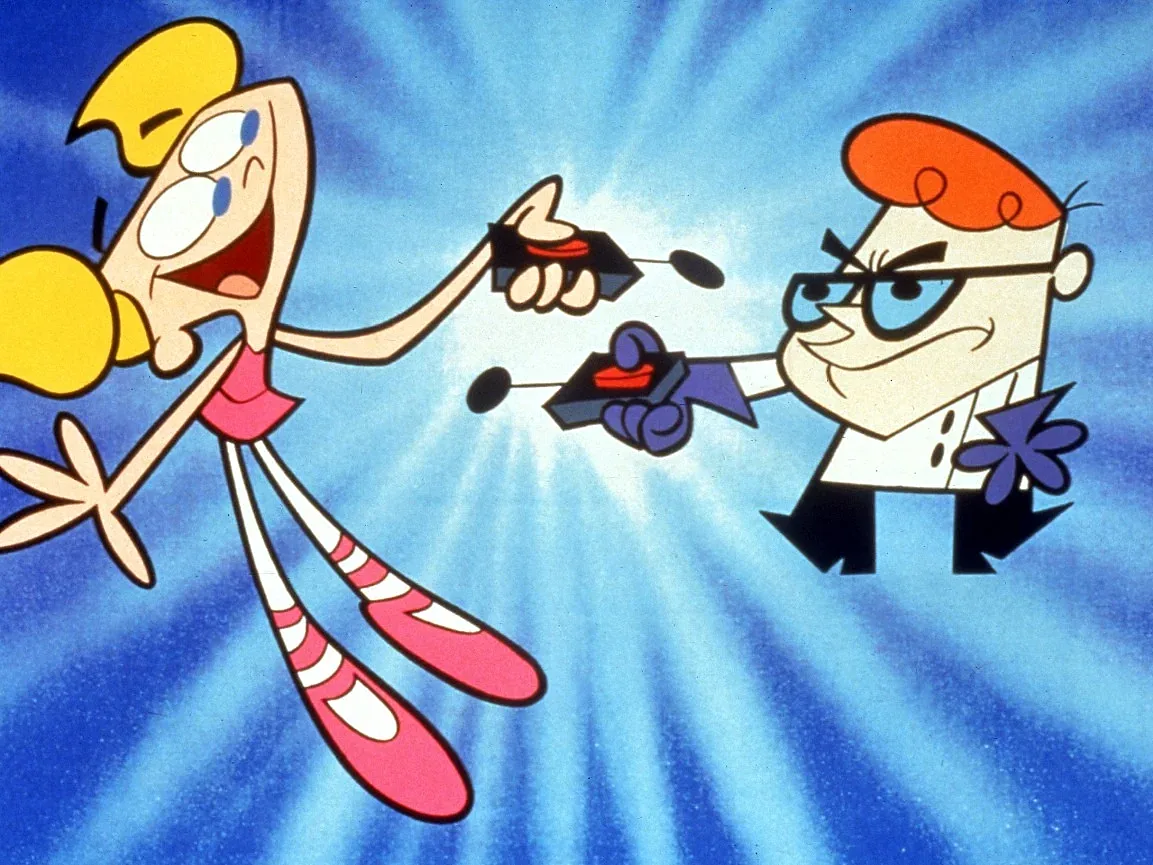
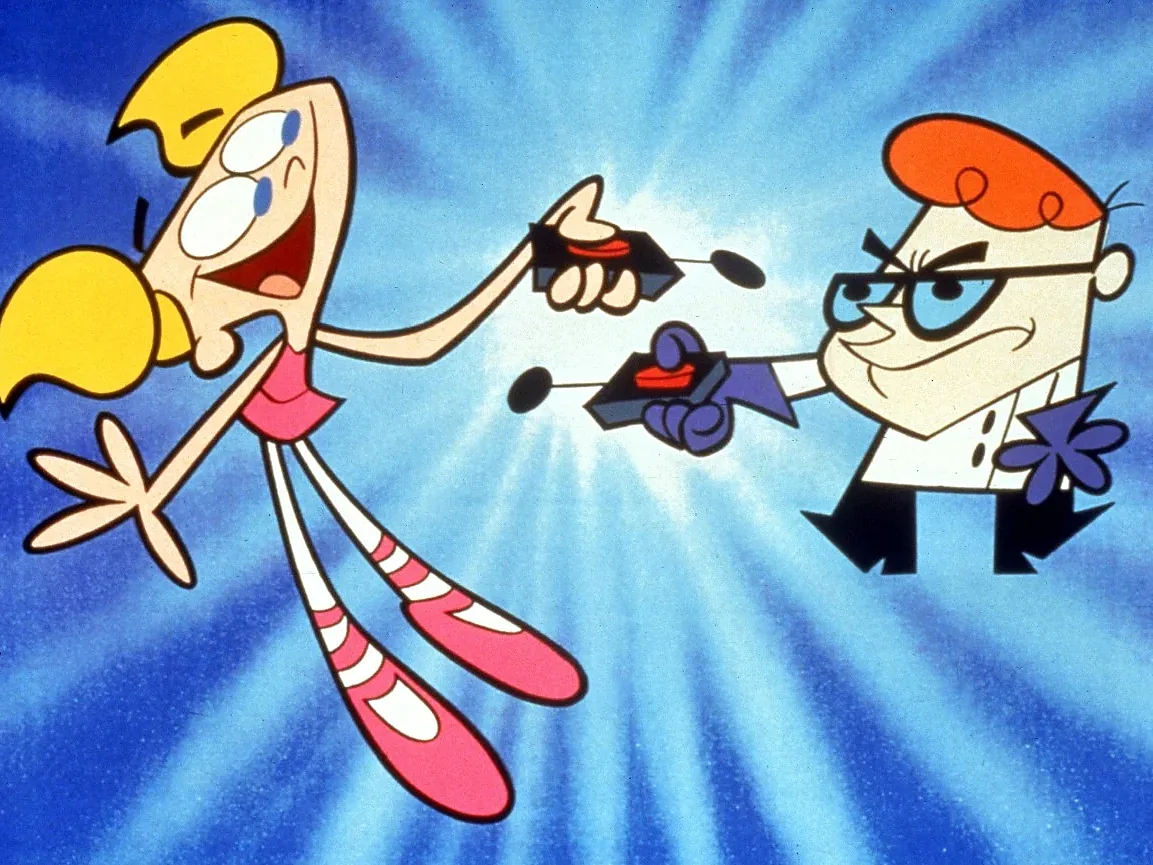
Update character photos and quad color swatches
- Daria: swap in new 2X photo; set jacket color to #214D1B with a
  themed quad palette (dark red, black, tan orange).
- Mac: swap in new 2X photo; set shirt color to #B32324 with palette
  royal purple, sunshine yellow, bright green.
- Dee Dee's tutu: shift the 4:3 crop left so her full body stays in
  frame; swap the black distractor swatch for blue.
- Quagmire's shirt: phrase combo rounds as "What color combo is …?"
  so two-tone questions stipulate the combo up front.
- Helga's bow: themed palette keeping pink, plus baby blue, deep lilac
  purple, and fire truck red.
- Lard Lad Donut: pin the bottom of Homer's chest to the bottom of the
  frame instead of floating mid-box.
- Arnold's hat: themed palette so the wrong blue is a deeper, more
  saturated shade that sits further from the hat's light blue.

diff --git a/js/quad.js b/js/quad.js
@@ -161,13 +161,47 @@ const PALETTES = {
     '#FFFFFF', // white
     '#5B7B9D', // muted / light navy blue
   ],
-  // Mac's red shirt from Foster's. Distractors are green, baby blue, and
-  // lilac purple so the round picks between four distinct hues.
+  // Mac's red shirt from Foster's. Distractors are royal purple, sunshine
+  // yellow, and bright green so the round picks between four distinct hues.
   'mac-shirt': [
-    '#D2292A', // Mac shirt red (correct, mirrors items.json)
-    '#6FB04A', // green
+    '#B32324', // Mac shirt red (correct, mirrors items.json)
+    '#6A0DAD', // royal purple
+    '#FFD400', // sunshine yellow
+    '#2ECC40', // bright green
+  ],
+  // Daria's olive-green jacket. Distractors are dark red (Jane's coat hue),
+  // black, and a tan orange — three families clearly apart from the green so
+  // there's never a near-green near-miss.
+  'daria-jacket': [
+    '#214D1B', // Daria jacket green (correct, mirrors items.json)
+    '#8B1A1A', // dark red
+    '#1A1A1A', // black
+    '#CD853F', // tan orange
+  ],
+  // Helga's pink bow. Distractors are baby blue, deep lilac purple, and fire
+  // truck red so the player picks between four distinct hues.
+  'helga-bow': [
+    '#FF69B4', // Helga bow pink (correct, mirrors items.json)
     '#89CFF0', // baby blue
-    '#C8A2C8', // lilac purple
+    '#9B72CF', // deep lilac purple
+    '#CE2029', // fire truck red
+  ],
+  // Dee Dee's pink tutu. Distractors are white, blue, and a deep red — three
+  // families clearly apart from her pink.
+  'dee-dee-tutu': [
+    '#FC698A', // Dee Dee pink (correct, mirrors items.json)
+    '#FFFFFF', // white
+    '#4A90D9', // blue
+    '#C5032F', // deep red
+  ],
+  // Arnold's light-blue hat. The near-miss is a deeper, more saturated blue
+  // (clearly darker than the hat so the two never read as the same swatch),
+  // paired with a yellow and a pink from unrelated hue families.
+  'arnolds-hat': [
+    '#5BA8D9', // Arnold hat blue (correct, mirrors items.json)
+    '#2083C5', // deeper, more saturated blue
+    '#F4D03F', // yellow
+    '#FF8FB3', // pink
   ],
   // CatDog — Dog's nose is a deep indigo. The "near miss" distractor is a
   // clearly lighter purple-blue (well above the canonical's lightness so it

diff --git a/js/main.js b/js/main.js
@@ -567,6 +567,10 @@ function renderRound() {
 }
 
 function promptText(c) {
+  // Combo items ask the player to match a pair of colours, so the prompt has
+  // to stipulate that up front — otherwise "What color is …?" reads as a
+  // single-swatch question even though the board shows two-tone options.
+  if (c.combo) return `What color combo is ${c.name}?`;
   return `What color is ${c.name}?`;
 }
 

diff --git a/scripts/process_photos.py b/scripts/process_photos.py
@@ -86,6 +86,10 @@ Y_ANCHOR = {
     # Roger Klotz - pin his lower waist to the bottom of the frame so he doesn't
     # float mid-box with the waistline clipped off.
     "IMG_0685.webp": 1.0,
+    # Lard Lad / Homer - isolated white-bg cutout. Centering left him floating
+    # mid-frame with white above and below; pin the bottom of his chest to the
+    # bottom of the 4:3 frame so all the slack stacks above his head instead.
+    "IMG_0618.webp": 1.0,
 }
 
 # After precrop + cover_crop strategy is selected, shift the centred crop
@@ -96,6 +100,9 @@ COVER_OFFSET = {
     # Keep more of the top so Anxiety's tall flame-shaped hair survives the
     # 4:3 trim after the side-tightening precrop.
     "IMG_0599.webp": {"y": 0.35},
+    # Dee Dee sits on the left of the wide source; the centred 4:3 trim clipped
+    # her far hair bun. Shift the window left so her full body stays in frame.
+    "IMG_0413.webp": {"x": 0.18},
 }
 
 # Pad the source with the sampled background colour before any other
@@ -193,7 +200,7 @@ ASSIGNMENTS = {
     "tommy-pickles-shirt":    "IMG_0407.jpeg",
     "chuckie-hair":           "IMG_0409.png",
     "doug-funnie-sweater":    "IMG_0410.webp",
-    "daria-jacket":           "IMG_0411.webp",
+    "daria-jacket":           "IMG_0717.webp",
     "dexter-gloves":          "IMG_0412.jpeg",
     "dee-dee-tutu":           "IMG_0413.webp",
     "eddy-shirt":             "IMG_0414.jpeg",
@@ -211,7 +218,7 @@ ASSIGNMENTS = {
     "johnny-quest-hair":      "IMG_0465.webp",
     "captain-planet-hair":    "IMG_0466.jpeg",
     "muriel-apron":           "IMG_0422.jpeg",
-    "mac-shirt":              "IMG_0424.jpeg",
+    "mac-shirt":              "IMG_0722.webp",
     "dora-shirt":             "IMG_0425.jpeg",
     "boots-stomach":          "IMG_0426.jpeg",
     "cosmo-mom-hair":         "IMG_0427.jpeg",
